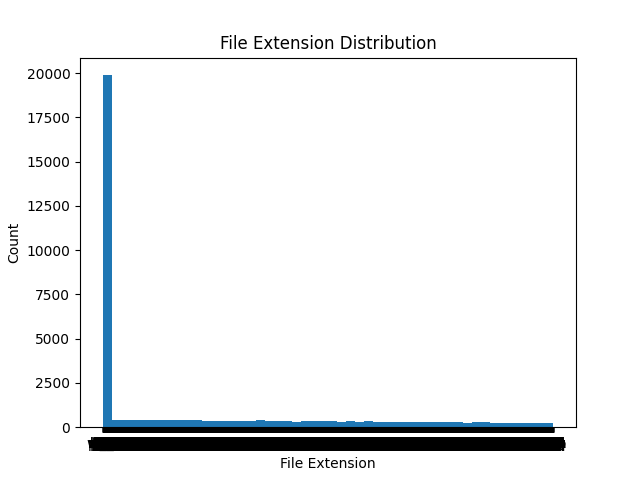
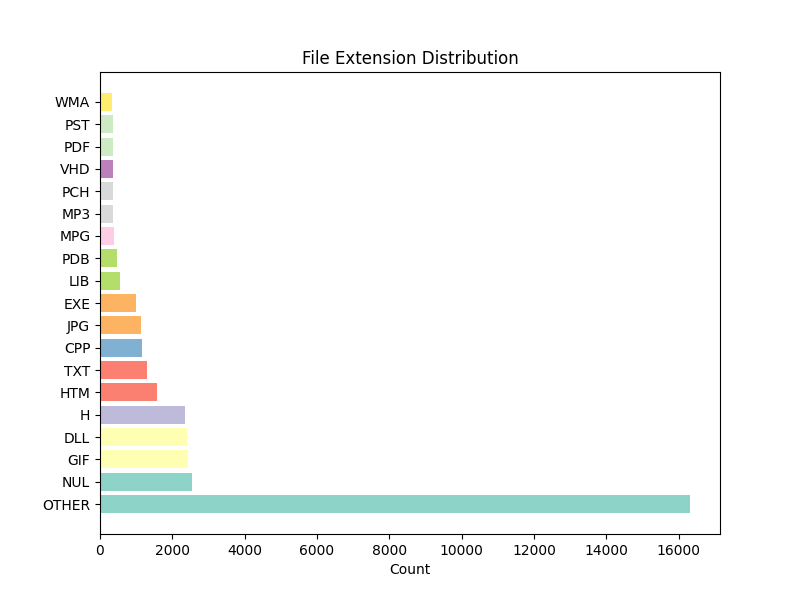
finish drawing

Changed region(s): [[0.0, 0.125, 0.9062, 1.0], [0.125, 0.0625, 0.9062, 0.125]]

diff --git a/impressions/utils/draw.py b/impressions/utils/draw.py
@@ -1,6 +1,8 @@
 import os
 import shutil
 import sys
+import numpy as np
+from scipy.interpolate import interp1d
 
 
 def handle_flags():
@@ -45,28 +47,94 @@ def generate_graphs(log_file_path, output_dir_path, index):
         depth = int(parts[3])
         data.append((ext_name, ext_num, size, depth))
 
-    # generate size distribution graph (log scale) using stem plot
-    sizes = [d[2] for d in data]
-    plt.stem(sizes)
+    # generate size distribution graph (log scale) using plot
+    # x axis is size in log scale, y axis is count
+    # We plot it smoothly without using histogram
+    sizes = np.array([d[2] for d in data])
+    
+    # Define the size intervals as powers of 2
+    size_intervals = [2**k for k in range(0, int(np.log2(max(sizes))) + 1)]
+
+    # Calculate the counts for each size interval
+    counts = []
+    prev_size = 0
+    for size in size_intervals:
+        count = np.sum((sizes > prev_size) & (sizes <= size))
+        counts.append(count)
+        prev_size = size
+
+    # Create the plot
+    plt.figure(figsize=(8, 6))
+    plt.plot(size_intervals, counts, marker='o', linestyle='-')
+
+    plt.xscale('log')  # Set logarithmic scale on the x-axis
+
+
+    # Set the custom tick locations and labels
+    tick_locations = [8, 10**3, 10**4, 10**5, 10**6, 10**7, 10**8, 10**9, 10**10, 10**11]
+    tick_labels = ['8 Bytes', '1KB', '10KB' ,'100KB','1 MB', '10 MB', '100 MB' , '1 GB', '10 GB', '100 GB']
+    
+    # check the maximum size is less then any of the tick locations, if so, remove the last tick location
+    for i in range(len(tick_locations)):
+        if tick_locations[i] > 2 * max(sizes):
+            tick_locations = tick_locations[:i]
+            tick_labels = tick_labels[:i]
+            break
+    
+    # Set the custom tick locations and labels on the x-axis
+    ax = plt.gca()
+    ax.set_xticks(tick_locations)
+    ax.set_xticklabels(tick_labels)
+    
     plt.xlabel('File Size (log scale)')
     plt.ylabel('Count')
     plt.title('Size Distribution')
-    plt.xscale('log')
     plt.savefig(os.path.join(output_dir_path, f'size_distribution_{index}.png'))
     plt.clf()
     print(f"Generated size_distribution_{index}.png")
-
-    # generate file extension distribution graph
-    ext_names = [d[0] for d in data]
-    plt.hist(ext_names, bins=50)
-    plt.xlabel('File Extension')
-    plt.ylabel('Count')
+    
+    extensions = [
+        "NUL",
+        "TXT",
+        "JPG",
+        "EXE",
+        "CPP",
+        "HTM",
+        "H",
+        "DLL",
+        "GIF",
+        "PDB",
+        "PST",
+        "PCH",
+        "MP3",
+        "LIB",
+        "WMA",
+        "VHD",
+        "PDF",
+        "MPG",
+        "OTHER"  # all files falling in the tail
+    ]
+    ext_names = [extensions[d[1]] for d in data]
+    print(len(set(ext_names)))
+    ext_counts = {}
+    for ext in ext_names:
+        if ext in ext_counts:
+            ext_counts[ext] += 1
+        else:
+            ext_counts[ext] = 1
+    sorted_ext_counts = sorted(ext_counts.items(), key=lambda x: x[1], reverse=True)
+    ext_names = [x[0] for x in sorted_ext_counts]
+    ext_counts = [x[1] for x in sorted_ext_counts]
+    colors = plt.cm.Set3([i/float(len(ext_names)) for i in range(len(ext_names))])
+    plt.barh(range(len(ext_names)), ext_counts, color=colors)
+    plt.yticks(range(len(ext_names)), ext_names)
+    plt.xlabel('Count')
     plt.title('File Extension Distribution')
     plt.savefig(os.path.join(output_dir_path, f'extension_distribution_{index}.png'))
     plt.clf()
     print(f"Generated extension_distribution_{index}.png")
 
-    # generate depth distribution graph
+    # generate depth distribution graph using histogram
     depths = [d[3] for d in data]
     plt.hist(depths, bins=50)
     plt.xlabel('File Depth')
@@ -75,6 +143,8 @@ def generate_graphs(log_file_path, output_dir_path, index):
     plt.savefig(os.path.join(output_dir_path, f'depth_distribution_{index}.png'))
     plt.clf()
     print(f"Generated depth_distribution_{index}.png")
+    
+    
 
 handle_flags()
 
